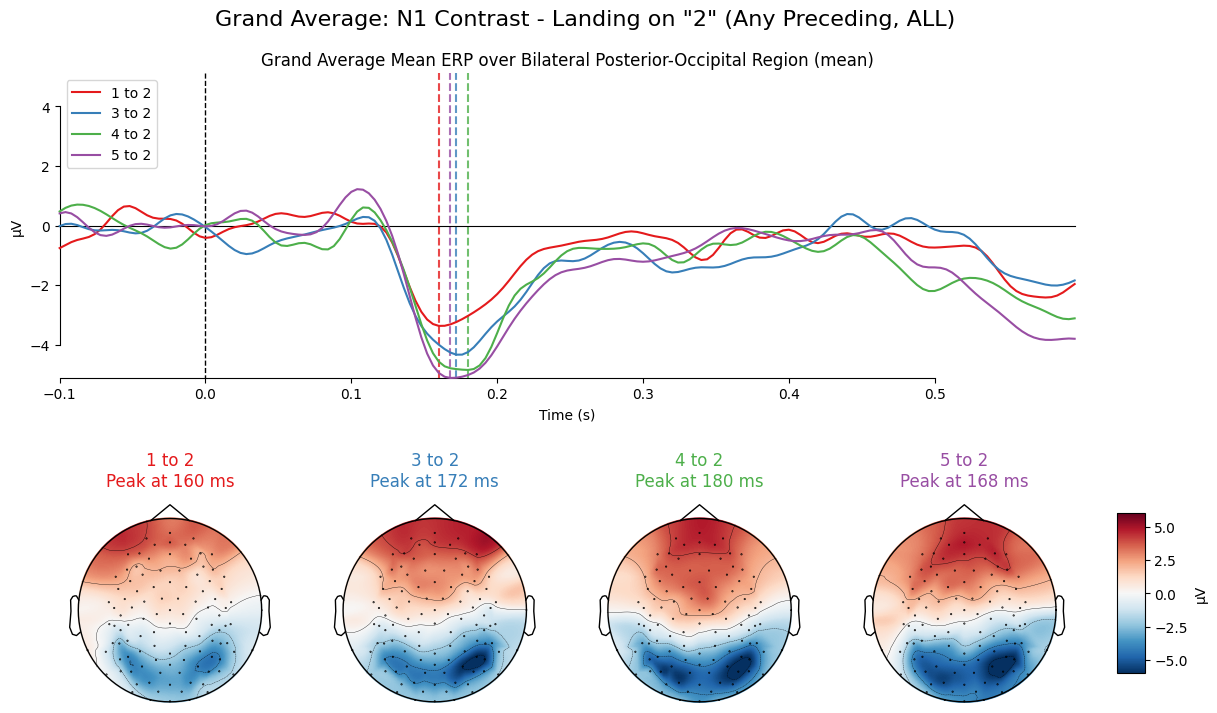
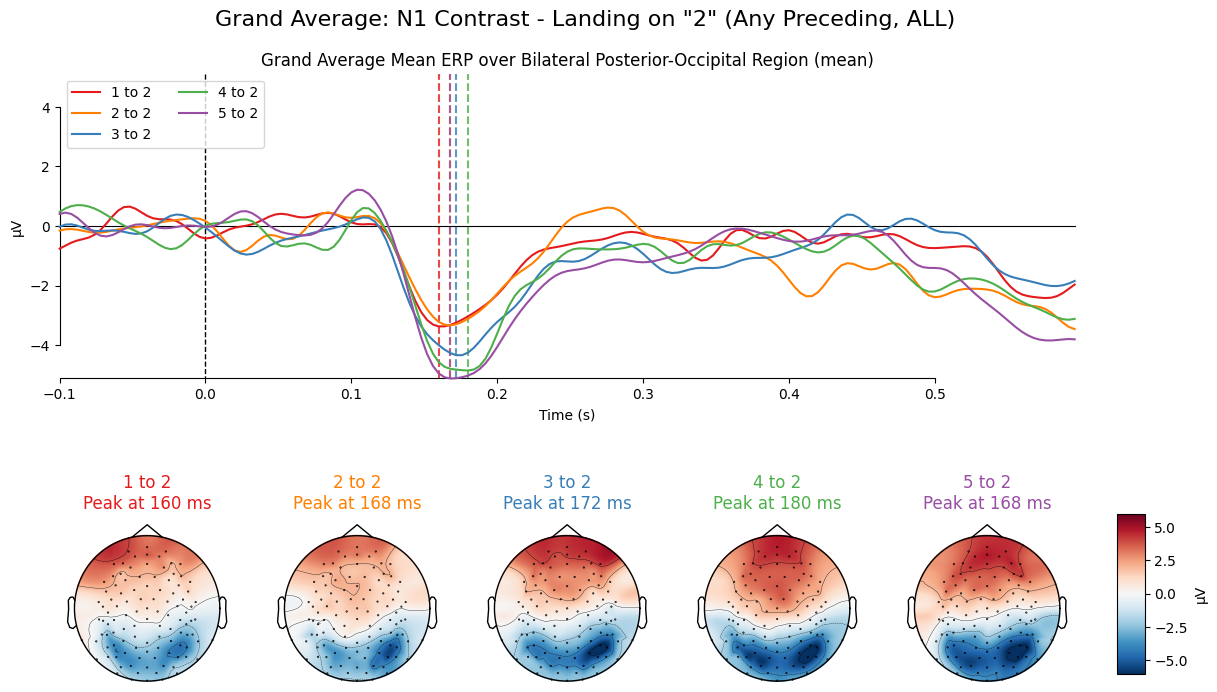
feat(analysis): Update 'landing on 2' analysis for 'all' to include '22' - Modified N1 and P1 'landing on 2 (any preceding)' scripts for the 'all' dataset to include the '22' condition. - This aligns the logic with the 'landing on 1 (any preceding)' analysis which includes '11'. - Regenerated and up

diff --git a/eeg_all/code/03_generate_n1_contrast_landing_on_2_any_preceding_all.py b/eeg_all/code/03_generate_n1_contrast_landing_on_2_any_preceding_all.py
@@ -9,11 +9,12 @@ import numpy as np
 
 # --- 1. CONFIGURATION ---
 # Base conditions to load
-BASE_CONDITIONS = ['12', '32', '42', '52']
+BASE_CONDITIONS = ['12', '22', '32', '42', '52']
 
 # How to combine base conditions into key conditions
 KEY_CONDITIONS_MAP = {
     "1 to 2": ["12"],
+    "2 to 2": ["22"],
     "3 to 2": ["32"],
     "4 to 2": ["42"],
     "5 to 2": ["52"],
@@ -22,6 +23,7 @@ KEY_CONDITIONS_MAP = {
 # Define colors for plots
 CONDITION_COLORS = {
     "1 to 2": '#e41a1c',  # Red
+    "2 to 2": '#ff7f00',  # Orange
     "3 to 2": '#377eb8',  # Blue
     "4 to 2": '#4daf4a',  # Green
     "5 to 2": '#984ea3',  # Purple
@@ -89,7 +91,7 @@ def generate_n1_contrast_plots(subjects_to_process):
                     mean_data = roi_evoked.data.mean(axis=0, keepdims=True)
                     mean_info = mne.create_info(ch_names=['mean_roi'], sfreq=evoked.info['sfreq'], ch_types='eeg')
                     mean_roi_evoked = mne.EvokedArray(mean_data, mean_info, tmin=evoked.tmin)
-                    _, peak_time, _ = mean_roi_evoked.get_peak(tmin=PEAK_TMIN, tmax=PEAK_TMAX, mode='neg', return_amplitude=True)
+                    _, peak_time, _ = mean_roi_evoked.get_peak(tmin=PEAK_TMIN, tmax=PEAK_TMAX, mode='abs', return_amplitude=True)
                     peak_times[cond_name] = peak_time
                 except ValueError:
                     peak_times[cond_name] = None
@@ -151,11 +153,11 @@ def generate_n1_contrast_plots(subjects_to_process):
             mean_data = roi_evoked.data.mean(axis=0, keepdims=True)
             mean_info = mne.create_info(ch_names=['mean_roi'], sfreq=evoked.info['sfreq'], ch_types='eeg')
             mean_roi_evoked = mne.EvokedArray(mean_data, mean_info, tmin=evoked.tmin)
-            _, peak_time, _ = mean_roi_evoked.get_peak(tmin=PEAK_TMIN, tmax=PEAK_TMAX, mode='neg', return_amplitude=True)
+            _, peak_time, _ = mean_roi_evoked.get_peak(tmin=PEAK_TMIN, tmax=PEAK_TMAX, mode='abs', return_amplitude=True)
             peak_times_grp[cond_name] = peak_time
         except ValueError:
             peak_times_grp[cond_name] = None
-            print(f"    - No group-level negative peak found for '{cond_name}'. Skipping annotation.")
+            print(f"    - No group-level peak found for '{cond_name}'. Skipping annotation.")
 
     for i, (cond_name, evoked) in enumerate(grand_averages_key.items()):
         ax_topo_grp = fig_grp.add_subplot(gs_grp[1, i])

diff --git a/eeg_all/code/03_generate_p1_contrast_landing_on_2_any_preceding_all.py b/eeg_all/code/03_generate_p1_contrast_landing_on_2_any_preceding_all.py
@@ -9,11 +9,12 @@ import numpy as np
 
 # --- 1. CONFIGURATION ---
 # Base conditions to load
-BASE_CONDITIONS = ['12', '32', '42', '52']
+BASE_CONDITIONS = ['12', '22', '32', '42', '52']
 
 # How to combine base conditions into key conditions
 KEY_CONDITIONS_MAP = {
     "1 to 2": ["12"],
+    "2 to 2": ["22"],
     "3 to 2": ["32"],
     "4 to 2": ["42"],
     "5 to 2": ["52"],
@@ -22,6 +23,7 @@ KEY_CONDITIONS_MAP = {
 # Define colors for plots
 CONDITION_COLORS = {
     "1 to 2": '#e41a1c',  # Red
+    "2 to 2": '#ff7f00',  # Orange
     "3 to 2": '#377eb8',  # Blue
     "4 to 2": '#4daf4a',  # Green
     "5 to 2": '#984ea3',  # Purple
